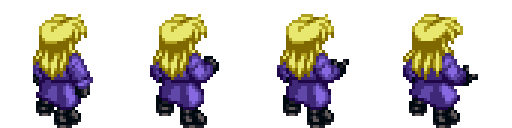
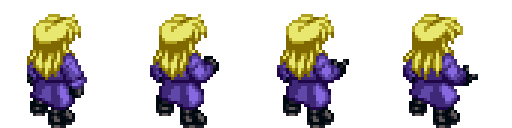
add idle frame loop

Changed region(s): [[0.0312, 0.0938, 0.1875, 1.0]]

diff --git a/client/src/entities/Mercenary.ts b/client/src/entities/Mercenary.ts
@@ -7,13 +7,18 @@ import {
 	toSpriteCharacterClass,
 	type SpriteCharacterClass,
 } from "@/types/characterSprite";
-import { getIsoFacing } from "@/math/characterDirection";
+import { getIsoFacingFromScreenDelta } from "@/math/characterDirection";
 
 const SPHERE_RADIUS = 12;
 const MOVE_DURATION_PER_TILE_MS = 180;
 
 /**
  * Animated hunter token. Visual only — grid position lives in MercenaryState.
+ *
+ * Facing is derived from the *active screen-space segment* of the path
+ * (current position → path[0] → path[1] → …), not from path[0]→path[1]
+ * alone. The path array does not include the unit's current tile, so
+ * using only grid pairs from `path` aimed the sprite at the *next* leg.
  */
 export class Mercenary {
 	readonly view = new Container();
@@ -29,7 +34,6 @@ export class Mercenary {
 	private readonly placeholder: Graphics;
 	private readonly sprite: CharacterSprite;
 	private spriteReady = false;
-	private lastPathCoords: GridCoord[] = [];
 
 	constructor(
 		initialCoord: GridCoord,
@@ -75,9 +79,6 @@ export class Mercenary {
 				return;
 			}
 
-			this.lastPathCoords = path;
-			this.applyFacingFromPath(path);
-
 			this.animPoints = [
 				{ ...this.currentScreenPos },
 				...path.map(gridToScreen),
@@ -87,6 +88,9 @@ export class Mercenary {
 				durationMsOverride ?? path.length * MOVE_DURATION_PER_TILE_MS;
 			this._isAnimating = true;
 			this.onPathComplete = resolve;
+
+			// Face along the first leg: current screen pos → first path tile
+			this.applyFacingFromScreenSegment(0);
 
 			if (this.spriteReady) {
 				void this.sprite.play("walk");
@@ -129,7 +133,6 @@ export class Mercenary {
 			this.animPoints = [];
 			this.animElapsedMs = 0;
 			this.animDurationMs = 0;
-			this.lastPathCoords = [];
 
 			if (this.spriteReady) {
 				void this.sprite.play("idle");
@@ -141,14 +144,20 @@ export class Mercenary {
 		}
 	}
 
-	private applyFacingFromPath(path: GridCoord[]): void {
-		if (path.length >= 2) {
-			this.sprite.setDirection(getIsoFacing(path[0]!, path[1]!));
-		}
+	/**
+	 * Face along animPoints[segmentIndex-1] → animPoints[segmentIndex].
+	 * segmentIndex is 1-based (first leg = 1).
+	 */
+	private applyFacingFromScreenSegment(segmentIndexZeroBased: number): void {
+		const i = segmentIndexZeroBased;
+		if (i < 0 || i + 1 >= this.animPoints.length) return;
+		const a = this.animPoints[i]!;
+		const b = this.animPoints[i + 1]!;
+		this.sprite.setDirection(getIsoFacingFromScreenDelta(b.x - a.x, b.y - a.y));
 	}
 
 	private updateFacingForProgress(t: number): void {
-		if (this.lastPathCoords.length < 2 || this.animPoints.length < 2) return;
+		if (this.animPoints.length < 2) return;
 
 		const points = this.animPoints;
 		const lengths: number[] = [0];
@@ -171,15 +180,8 @@ export class Mercenary {
 			segmentIndex = i;
 		}
 
-		if (segmentIndex >= 2) {
-			const from = this.lastPathCoords[segmentIndex - 2]!;
-			const to = this.lastPathCoords[segmentIndex - 1]!;
-			this.sprite.setDirection(getIsoFacing(from, to));
-		} else if (this.lastPathCoords.length >= 2) {
-			this.sprite.setDirection(
-				getIsoFacing(this.lastPathCoords[0]!, this.lastPathCoords[1]!),
-			);
-		}
+		// segmentIndex is 1-based index into the end of the active leg
+		this.applyFacingFromScreenSegment(segmentIndex - 1);
 	}
 
 	private syncPosition(): void {
@@ -193,7 +195,8 @@ export class Mercenary {
 
 	private drawShadow(): Graphics {
 		const g = new Graphics();
-		g.ellipse(0, 2, SPHERE_RADIUS * 0.9, SPHERE_RADIUS * 0.35);
+		// Slightly lower under boots so the blob sits on the tile face
+		g.ellipse(0, 4, SPHERE_RADIUS * 0.9, SPHERE_RADIUS * 0.35);
 		g.fill({ color: 0x000000, alpha: 0.35 });
 		return g;
 	}

diff --git a/client/src/math/characterDirection.ts b/client/src/math/characterDirection.ts
@@ -43,3 +43,11 @@ const MIRROR_PARTNER: Record<IsoFacing, IsoFacing> = {
 export function mirrorPartner(facing: IsoFacing): IsoFacing {
 	return MIRROR_PARTNER[facing];
 }
+
+export function getIsoFacingFromScreenDelta(dx: number, dy: number): IsoFacing {
+	if (Math.abs(dx) < 0.001 && Math.abs(dy) < 0.001) return "se";
+	if (dy >= 0 && dx >= 0) return "se";
+	if (dy >= 0 && dx < 0) return "sw";
+	if (dy < 0 && dx < 0) return "nw";
+	return "ne";
+}

diff --git a/client/src/entities/CharacterSprite.ts b/client/src/entities/CharacterSprite.ts
@@ -50,7 +50,7 @@ export class CharacterSprite {
 		// Bottom-center anchor + y=0 is the entire positioning contract —
 		// this is what "feet at frame bottom" in the source art buys us.
 		this.sprite.anchor.set(0.5, 1);
-		this.sprite.y = 0;
+		this.sprite.y = 10;
 		this.view.addChild(this.sprite);
 		this.view.visible = false;
 	}

diff --git a/client/src/sprites/manifests/brawler.ts b/client/src/sprites/manifests/brawler.ts
@@ -42,10 +42,9 @@ export const brawlerSprite: CharacterSpriteManifest = {
 	facings: ["se", "sw", "ne", "nw"],
 	animations: {
 		idle: {
-			frames: 1,
+			frames: 4,
 			loop: true,
-			runtimeIdle: true,
-			fps: 1,
+			fps: 4,
 		},
 		walk: {
 			frames: 6,
